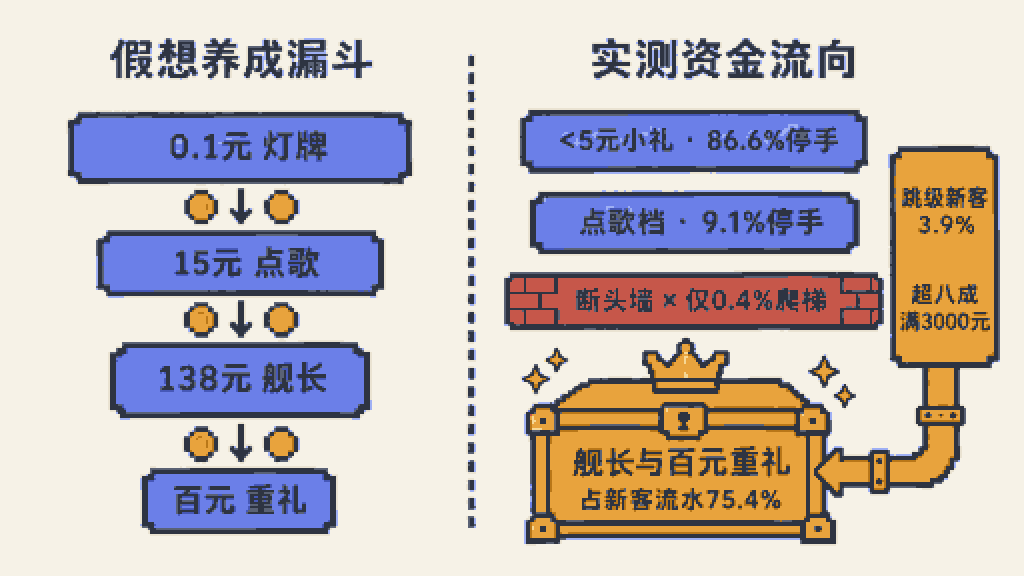
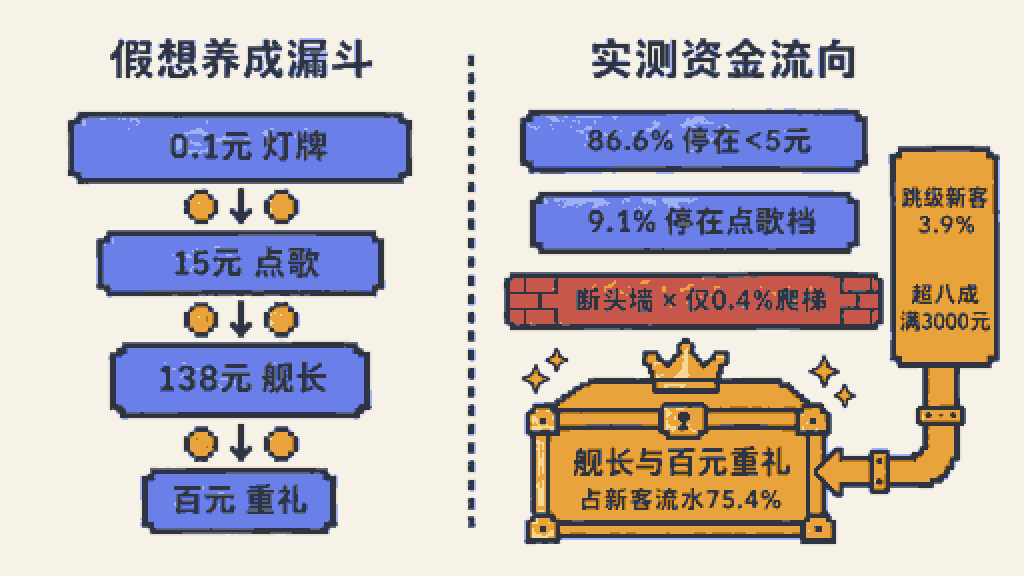
Polish: live streaming part 3 wording and figure 1 labels

diff --git a/content/live-streaming-3-en.md b/content/live-streaming-3-en.md
@@ -14,11 +14,11 @@ Before collecting our own dataset, we reviewed the published academic literature
 
 Importing conclusions from those platforms straight into China produces huge distortion. Across the mostly small- and mid-sized Bilibili virtual singing and chat rooms we sampled, Super Chats accounted for just 3.9% of actual spending; more than 96% of revenue came from direct gifts, monthly room memberships (called *Captains* on Bilibili), and random blind boxes. On the domestic side, there is indeed [a massive study of 2.7 million Bilibili live streams](https://arxiv.org/abs/2502.01553), but it scraped only public text chat and gift logs—without recording and transcribing what the streamer actually said into the microphone, there is no way to align spoken interactions with the exact moments viewers open their wallets.
 
-To find out who the big spenders in these rooms really are and what actually makes them pay, we recorded and transcribed more than 1,200 hours of Bilibili virtual singing and chat audio. Combining that audio timeline with over 740,000 room-entry logs and ¥514,000 in actual viewer payments, we used AI to align—second by second—who walked in, what they talked about, and what triggered each payment. The results were surprising: whether a sales funnel really turns casual passersby into big spenders, who the top-ranked patrons actually are in real life, and what moments make viewers spend all looked very different from what we expected.
+To find out who the big spenders in these rooms really are and what actually makes them pay, we recorded and transcribed more than 1,200 hours of Bilibili virtual singing and chat audio. Combining that audio timeline with over 740,000 room-entry logs and ¥514,000 in actual viewer payments, we used AI to align who walked in, what they talked about, and what triggered each payment. The results were quite surprising: whether a sales funnel really turns casual passersby into big spenders, who the top-ranked patrons actually are in real life, and what moments make viewers spend all looked very different from what we expected.
 
 ## The Myth of the Conversion Funnel
 
-As someone who works in tech, my immediate reaction to a live room's gift menu was: isn't this a textbook conversion funnel? A newcomer pays ¥0.1 to light up a dedicated fan badge (which can later be leveled up with further gifts) and gets a free song request; once they become a regular, they spend ¥15 on a Heartbeat Blind Box to request songs; as trust and attachment build, they upgrade to a ¥138–¥198 monthly Captain subscription; and during 5-minute split-screen gift battles between two streamers (known as PK, with a 1-minute double-points window in the middle), they drop hundreds or thousands of yuan on heavy gifts.
+As someone who works in tech, my immediate reaction to a live room's gift menu was: isn't this a textbook conversion funnel? A newcomer pays ¥0.1 to light up a dedicated fan badge (which can later be leveled up with further gifts) and gets a free song request; once they become a regular, they spend ¥15 on a Heartbeat Blind Box to request songs; as trust and attachment build, they upgrade to a ¥138–¥198 monthly Captain subscription; and during 5-minute split-screen gift battles between two streamers (PK), they drop hundreds or thousands of yuan on heavy gifts.
 
 In reality, plenty of new streamers do spend every session begging passersby to light up that ¥0.1 badge, convinced that if you pour enough newcomers into the top of the funnel, some will gradually climb all the way to Captain and #1 on the leaderboard. Put those 740,000+ room-entry logs next to the payment ledger, however, and that assumption falls apart. First comes the massive silent majority beneath the surface: nearly 96% of room entries never type a single word, listening quietly for free and leaving. And when we break down the 10,000+ viewer-room payment records by actual spending role inside a room, headcount and revenue diverge sharply:
 
